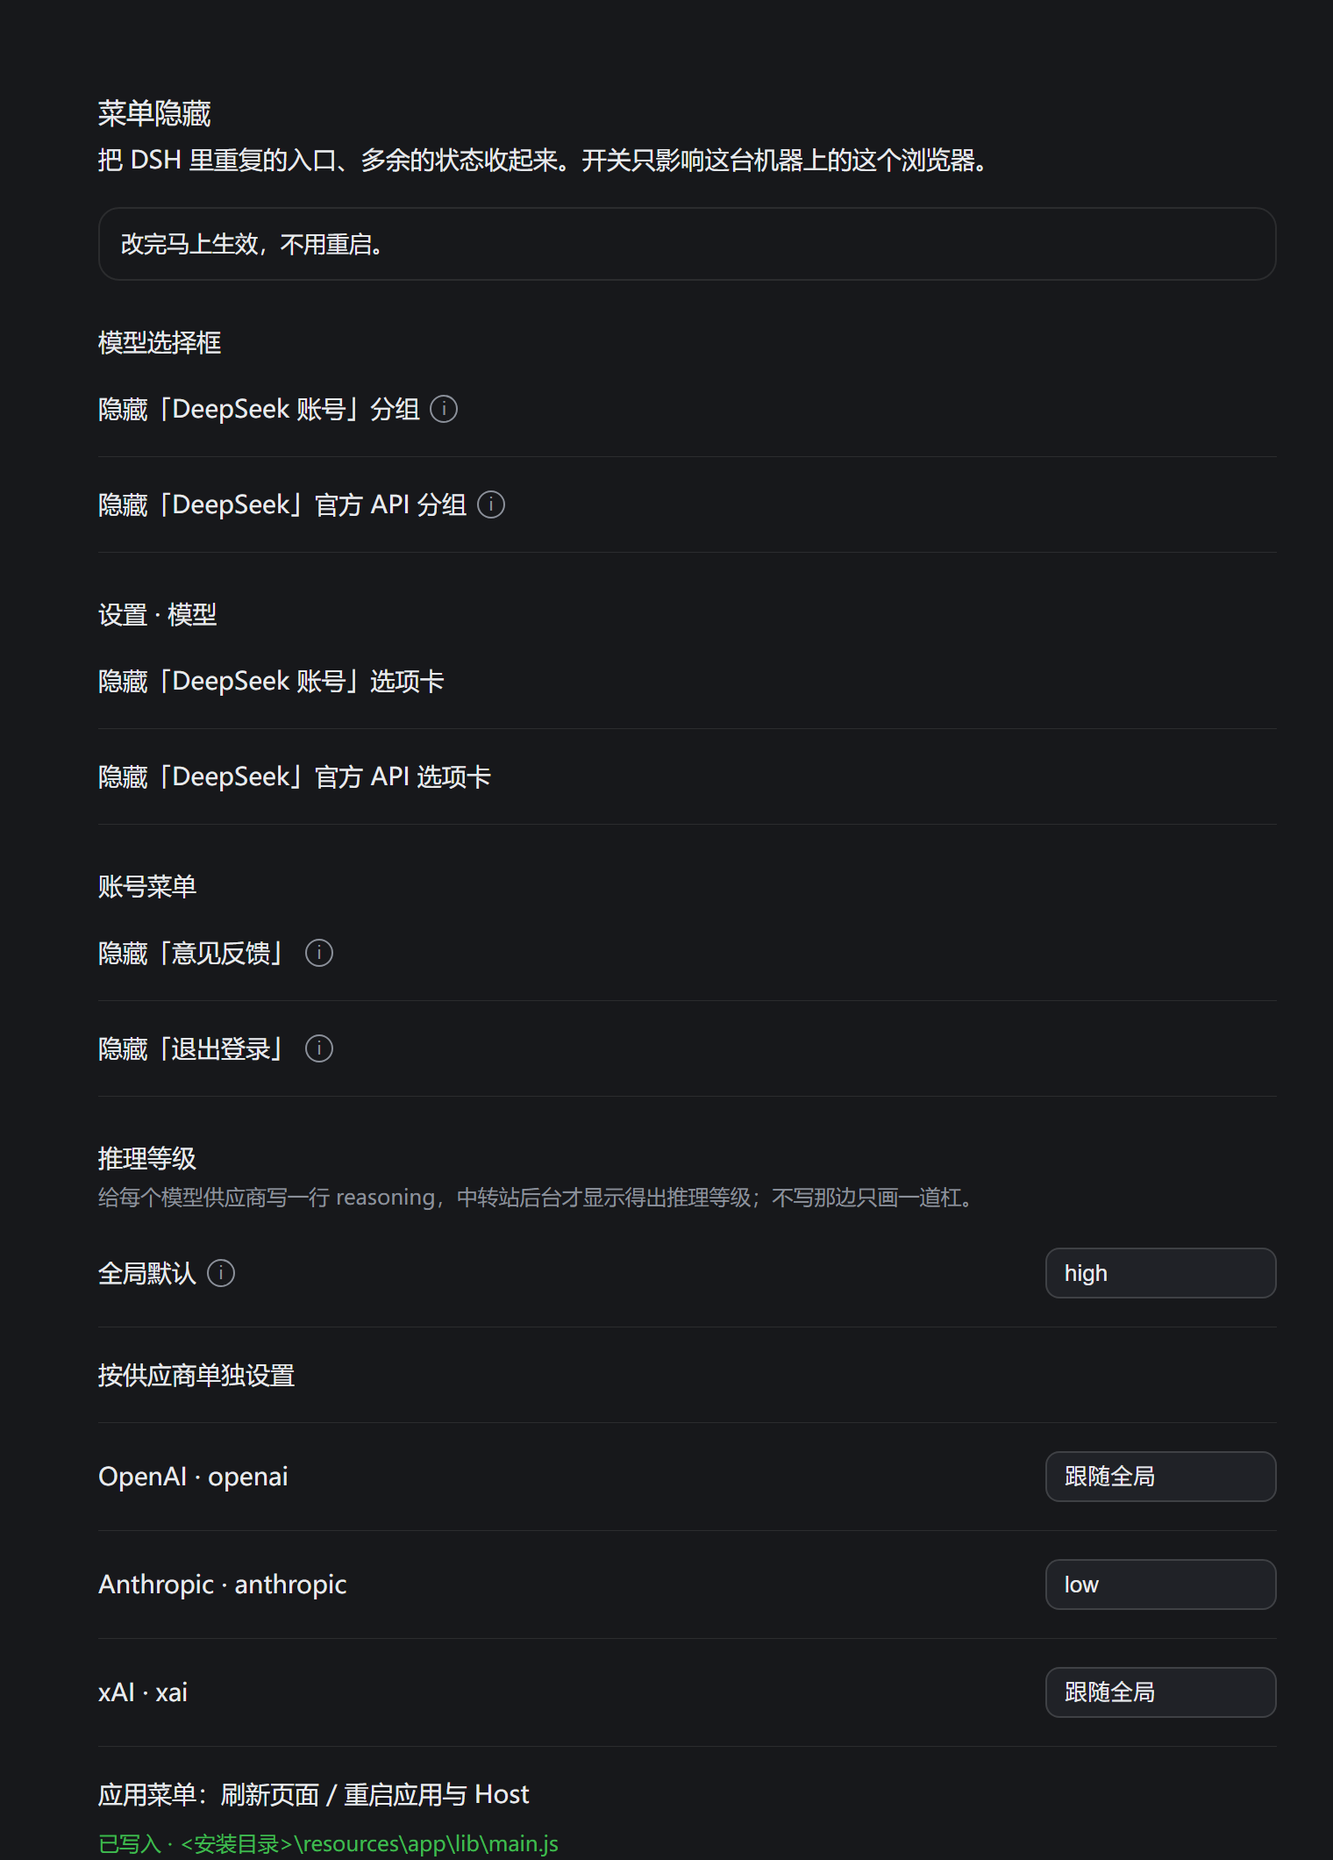
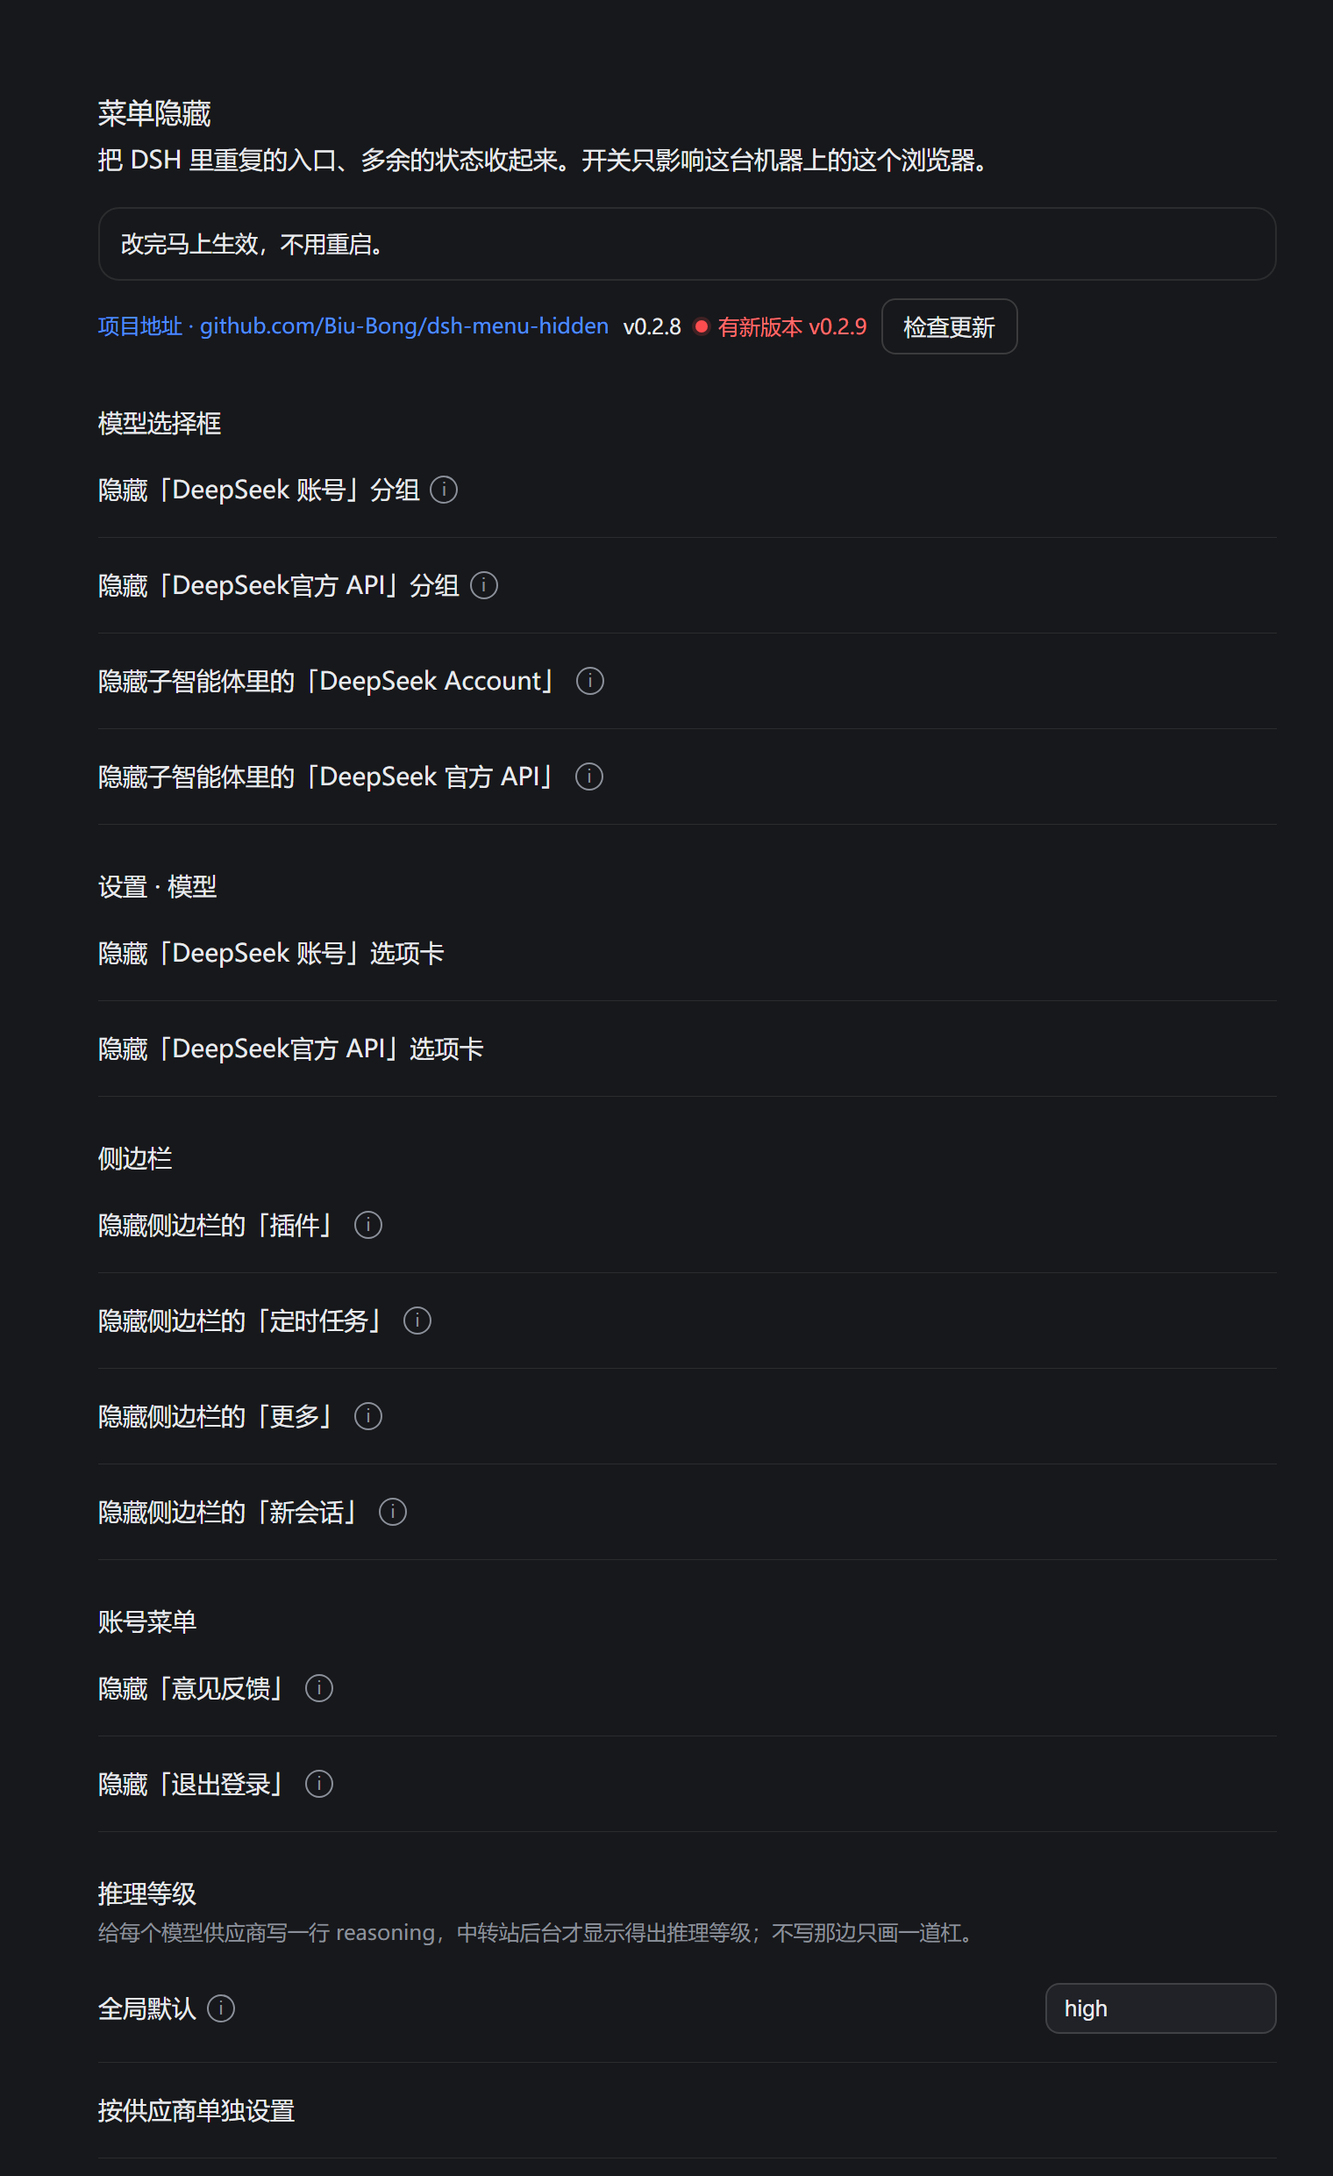
0.2.8: 隐藏侧边栏「新会话」；设置页顶部加项目地址与检查更新（红点提示新版本）

diff --git a/client.js b/client.js
@@ -39,6 +39,8 @@ window.__ModuleLoader__.load({
 		const MARK = "data-dshmh-hidden";
 		const SHELL_ROUTE = "/dsh-menu-hidden/api/shell-menu";
 		const REASONING_ROUTE = "/dsh-menu-hidden/api/reasoning";
+		const UPDATE_ROUTE = "/dsh-menu-hidden/api/update";
+		const REPO_URL = "https://github.com/Biu-Bong/dsh-menu-hidden";
 		const SETTINGS_SECTION_SLOT = "settings.section";
 
 		// ── §1 文案（跟随应用语言） ────────────────────────────────────────────
@@ -82,6 +84,14 @@ window.__ModuleLoader__.load({
 				sidebarSchedulesHint: "同一排图标里的定时任务入口。",
 				sidebarMoreLabel: "隐藏侧边栏的「更多」",
 				sidebarMoreHint: "那排图标最后的「更多」，点开是没固定在侧栏的面板。藏掉之后它们只能靠命令面板进。",
+				sidebarNewSessionLabel: "隐藏侧边栏的「新会话」",
+				sidebarNewSessionHint: "那个大按钮。点左上角的 LOGO 一样能开新会话，Ctrl+N 也还在。",
+				updateCheck: "检查更新",
+				updateChecking: "检查中…",
+				updateLatest: "已是最新",
+				updateNew: "有新版本",
+				updateFailed: "检查失败",
+				updateRepo: "项目地址",
 				feedbackLabel: "隐藏「意见反馈」",
 				feedbackHint: "右下角头像点开的那份菜单里的「意见反馈」。",
 				signOutLabel: "隐藏「退出登录」",
@@ -142,6 +152,14 @@ window.__ModuleLoader__.load({
 				sidebarSchedulesHint: "The Scheduled tasks entry in the same rail.",
 				sidebarMoreLabel: "Hide \"More\" in the sidebar",
 				sidebarMoreHint: "The More launcher at the end of the rail; the panels it opens stay reachable from the command palette.",
+				sidebarNewSessionLabel: "Hide \"New session\" in the sidebar",
+				sidebarNewSessionHint: "The big button. The brand mark and Ctrl+N still start a session.",
+				updateCheck: "Check for updates",
+				updateChecking: "Checking…",
+				updateLatest: "Up to date",
+				updateNew: "New version",
+				updateFailed: "Check failed",
+				updateRepo: "Project",
 				feedbackLabel: "Hide \"Feedback\"",
 				feedbackHint: "The Feedback item in the account menu opened from the avatar at the bottom right.",
 				signOutLabel: "Hide \"Sign out\"",
@@ -174,6 +192,7 @@ window.__ModuleLoader__.load({
 			sidebarPlugins: true,
 			sidebarSchedules: true,
 			sidebarMore: true,
+			sidebarNewSession: true,
 			subagentAccount: true,
 			subagentOfficial: true,
 			accountRow: true,
@@ -232,6 +251,8 @@ window.__ModuleLoader__.load({
 		const SIDEBAR_PLUGINS_LABELS = ["插件", "Plugins"];
 		const SIDEBAR_SCHEDULES_LABELS = ["定时任务", "Scheduled tasks", "Schedules"];
 		const SIDEBAR_MORE_LABELS = ["更多", "More"];
+		/** 「新会话」大按钮：button._newSession，收起时变成标题栏里的小图标，同样认类名。 */
+		const SIDEBAR_NEW_SESSION_SELECTOR = 'button[class*="_newSession"]';
 		const SUBAGENT_ROUTE_SELECTOR = '[class*="_route"]';
 		const SUBAGENT_PROVIDER_SELECTOR = '[class*="_providerName"]';
 
@@ -305,6 +326,8 @@ window.__ModuleLoader__.load({
 		/** 侧边栏面板图标：按 aria-label 认（收起时没有文字，只剩它）。 */
 		function sweepSidebarNav(root) {
 			const rows = root.matches(SIDEBAR_ROW_SELECTOR) ? [root, ...root.querySelectorAll(SIDEBAR_ROW_SELECTOR)] : [...root.querySelectorAll(SIDEBAR_ROW_SELECTOR)];
+			const create = root.matches(SIDEBAR_NEW_SESSION_SELECTOR) ? [root, ...root.querySelectorAll(SIDEBAR_NEW_SESSION_SELECTOR)] : [...root.querySelectorAll(SIDEBAR_NEW_SESSION_SELECTOR)];
+			for (const button of create) setHidden(button, prefs.sidebarNewSession === true);
 			for (const row of rows) {
 				const text = (row.getAttribute("aria-label") ?? row.textContent ?? "").trim();
 				if (matches(SIDEBAR_PLUGINS_LABELS, text)) setHidden(row, prefs.sidebarPlugins === true);
@@ -534,6 +557,13 @@ window.__ModuleLoader__.load({
 			".dshmh-page{box-sizing:border-box;display:flex;flex-direction:column;width:100%;max-width:720px;margin:0 auto;padding:24px}",
 			".dshmh-title{color:var(--dsw-alias-label-primary,inherit);margin:0 0 4px;font-size:16px;font-weight:500;line-height:24px}",
 			".dshmh-desc{color:var(--dsw-alias-label-secondary,inherit);margin:0;font-size:14px;line-height:22px}",
+			".dshmh-project{display:flex;align-items:center;flex-wrap:wrap;gap:8px;margin:10px 0 4px;font-size:12px}",
+			".dshmh-link{color:var(--dsw-alias-state-business-primary,#4d8dff);text-decoration:none;border-bottom:1px solid transparent}",
+			".dshmh-link:hover{border-bottom-color:currentColor}",
+			".dshmh-version{color:var(--dsw-alias-label-secondary,inherit);font-variant-numeric:tabular-nums}",
+			".dshmh-new{display:inline-flex;align-items:center;gap:6px;color:#ff6b6b;font-weight:500}",
+			".dshmh-dot{width:7px;height:7px;border-radius:50%;background:#ff4d4f;box-shadow:0 0 0 2px rgba(255,77,79,.18);display:inline-block}",
+			".dshmh-inline{margin:0}",
 			".dshmh-subtitle{color:var(--dsw-alias-label-primary,inherit);margin:24px 0 0;font-size:14px;font-weight:500;line-height:22px}",
 			".dshmh-row{display:flex;align-items:center;gap:12px;padding:16px 0;border-bottom:.5px solid var(--dsw-alias-border-l2,rgba(127,127,127,.2))}",
 			".dshmh-text{display:flex;flex-direction:column;flex:1;gap:4px;min-width:0;padding-right:32px}",
@@ -717,6 +747,7 @@ window.__ModuleLoader__.load({
 			const [draftOverrides, setDraftOverrides] = React.useState({});
 			const [reasoningBusy, setReasoningBusy] = React.useState(false);
 			const [reasoningNote, setReasoningNote] = React.useState(null);
+			const [update, setUpdate] = React.useState(null);
 
 			React.useEffect(() => {
 				let alive = true;
@@ -726,6 +757,16 @@ window.__ModuleLoader__.load({
 				);
 				return () => { alive = false; };
 			}, []);
+
+			const checkUpdate = () => {
+				setUpdate((prev) => ({ ...(prev ?? {}), status: "loading" }));
+				fetch(UPDATE_ROUTE, { credentials: "same-origin" }).then((response) => response.json()).then(
+					(state) => setUpdate({ status: "done", ...state }),
+					(error) => setUpdate({ status: "error", error: String((error && error.message) || error) }),
+				);
+			};
+
+			React.useEffect(() => { checkUpdate(); }, []);
 
 			const toggle = (key) => (next) => {
 				prefs[key] = next === true;
@@ -853,6 +894,7 @@ window.__ModuleLoader__.load({
 				["sidebarPlugins", "sidebarPluginsLabel", "sidebarPluginsHint"],
 				["sidebarSchedules", "sidebarSchedulesLabel", "sidebarSchedulesHint"],
 				["sidebarMore", "sidebarMoreLabel", "sidebarMoreHint"],
+				["sidebarNewSession", "sidebarNewSessionLabel", "sidebarNewSessionHint"],
 			].map(([key, label, hint]) => React.createElement(ToggleRow, {
 				key,
 				label: t(label),
@@ -965,6 +1007,31 @@ window.__ModuleLoader__.load({
 				React.createElement("h2", { className: "dshmh-title" }, t("title")),
 				React.createElement("p", { className: "dshmh-desc" }, t("desc")),
 				React.createElement("p", { className: "dshmh-note" }, t("autoRefreshNote")),
+				React.createElement("div", { className: "dshmh-project" },
+					React.createElement("a", {
+						className: "dshmh-link",
+						href: REPO_URL,
+						target: "_blank",
+						rel: "noreferrer",
+						onClick: (event) => {
+							// Electron 里 window.open 会被拦，退回普通跳转由 will-navigate 交给系统浏览器。
+							const opened = window.open(REPO_URL, "_blank", "noopener");
+							if (opened === null) { event.preventDefault(); window.location.href = REPO_URL; }
+						},
+					}, t("updateRepo") + " · github.com/Biu-Bong/dsh-menu-hidden"),
+					update !== null && typeof update.current === "string" ? React.createElement("span", { className: "dshmh-version" }, "v" + update.current) : null,
+					update !== null && update.hasUpdate === true ? React.createElement("span", { className: "dshmh-new" },
+						React.createElement("span", { className: "dshmh-dot", "aria-hidden": "true" }),
+						t("updateNew") + " v" + String(update.latest)) : null,
+					React.createElement("button", {
+						type: "button",
+						className: "dshmh-btn",
+						disabled: update !== null && update.status === "loading",
+						onClick: checkUpdate,
+					}, update !== null && update.status === "loading" ? t("updateChecking") : t("updateCheck")),
+					update !== null && update.status === "done" && update.hasUpdate !== true ? React.createElement("span", { className: "dshmh-caption dshmh-inline" }, t("updateLatest")) : null,
+					update !== null && update.status === "error" ? React.createElement("span", { className: "dshmh-caption dshmh-inline" }, t("updateFailed") + "：" + String(update.error ?? "")) : null,
+				),
 
 				React.createElement("h3", { className: "dshmh-subtitle" }, t("groupPicker")),
 				...rows,

diff --git a/index.js b/index.js
@@ -27,6 +27,10 @@ export const inject = ['webServer']
 
 const ROUTE = '/dsh-menu-hidden/api/shell-menu'
 const REASONING_ROUTE = '/dsh-menu-hidden/api/reasoning'
+const UPDATE_ROUTE = '/dsh-menu-hidden/api/update'
+const REPO_SLUG = 'Biu-Bong/dsh-menu-hidden'
+const REPO_URL = `https://github.com/${REPO_SLUG}`
+const UPDATE_TTL_MS = 30 * 60 * 1000
 const BACKUP_SUFFIX = '.menuhidden.bak'
 /** 官方原样：development 为 false 时整段被丢掉。 */
 const MARK_ORIGINAL = '...development ? ['
@@ -266,6 +270,70 @@ function readJsonBody(request, limit = 64 * 1024) {
  * @param {object} ctx - 宿主上下文。
  * @param {object} [config] - 预留配置。
  */
+/** 本插件的版本号：读自己旁边的 package.json。 */
+function readVersion() {
+  try {
+    return JSON.parse(readFileSync(new URL('./package.json', import.meta.url), 'utf8')).version
+  } catch {
+    return '0.0.0'
+  }
+}
+
+/** 只比 major.minor.patch，预发布后缀（-rc.1）先剥掉。 */
+function compareVersions(a, b) {
+  const parse = (value) => String(value).replace(/^v/, '').split('-')[0].split('.').map((part) => Number.parseInt(part, 10) || 0)
+  const left = parse(a)
+  const right = parse(b)
+  for (let index = 0; index < 3; index += 1) {
+    const diff = (left[index] ?? 0) - (right[index] ?? 0)
+    if (diff !== 0) return diff > 0 ? 1 : -1
+  }
+  return 0
+}
+
+let updateCache = { at: 0, payload: null }
+
+async function fetchJson(url, timeoutMs) {
+  const controller = new AbortController()
+  const timer = setTimeout(() => controller.abort(), timeoutMs)
+  try {
+    const response = await fetch(url, {
+      headers: { accept: 'application/json', 'user-agent': 'dsh-menu-hidden' },
+      signal: controller.signal,
+    })
+    if (!response.ok) throw new Error(`HTTP ${String(response.status)}`)
+    return await response.json()
+  } finally {
+    clearTimeout(timer)
+  }
+}
+
+/**
+ * 最新版本号。api.github.com 未登录时限流很凶（这台机器上就直接 403），
+ * 所以先读 raw 上的 package.json，再退到 jsdelivr，最后才试 GitHub API。
+ */
+async function latestRelease() {
+  if (updateCache.payload !== null && Date.now() - updateCache.at < UPDATE_TTL_MS) return updateCache.payload
+  const sources = [
+    async () => ({ latest: String((await fetchJson(`https://raw.githubusercontent.com/${REPO_SLUG}/main/package.json`, 8000)).version ?? '') }),
+    async () => ({ latest: String((await fetchJson(`https://cdn.jsdelivr.net/gh/${REPO_SLUG}@main/package.json`, 8000)).version ?? '') }),
+    async () => ({ latest: String((await fetchJson(`https://api.github.com/repos/${REPO_SLUG}/releases/latest`, 8000)).tag_name ?? '').replace(/^v/, '') }),
+  ]
+  let lastError = null
+  for (const load of sources) {
+    try {
+      const { latest } = await load()
+      if (latest === '') throw new Error('版本号是空的')
+      const payload = { latest, url: `${REPO_URL}/releases` }
+      updateCache = { at: Date.now(), payload }
+      return payload
+    } catch (error) {
+      lastError = error
+    }
+  }
+  throw lastError ?? new Error('没有可用的版本源')
+}
+
 export function apply(ctx, config = {}) {
   void config
   const info = (line) => {
@@ -365,5 +433,39 @@ export function apply(ctx, config = {}) {
   }
 
   ctx.effect(() => ctx.webServer.register({ kind: 'exact', path: REASONING_ROUTE, handler: reasoningHandler }), 'dsh-menu-hidden: reasoning route')
+
+  const updateHandler = async (request, response) => {
+    const send = (code, body) => {
+      response.writeHead(code, { 'content-type': 'application/json; charset=utf-8', 'cache-control': 'no-store' })
+      response.end(JSON.stringify(body))
+    }
+    if (!trustedRequest(request)) {
+      send(403, { ok: false, error: '请求来源不受信任。' })
+      return
+    }
+    if (request.method !== 'GET') {
+      response.writeHead(405, { allow: 'GET' })
+      response.end()
+      return
+    }
+    const current = readVersion()
+    try {
+      const release = await latestRelease()
+      send(200, {
+        ok: true,
+        current,
+        latest: release.latest,
+        hasUpdate: compareVersions(release.latest, current) > 0,
+        url: release.url,
+        repo: REPO_URL,
+        checkedAt: Date.now(),
+      })
+    } catch (error) {
+      send(200, { ok: false, current, latest: null, hasUpdate: false, repo: REPO_URL, error: String((error && error.message) || error) })
+    }
+  }
+
+  ctx.effect(() => ctx.webServer.register({ kind: 'exact', path: UPDATE_ROUTE, handler: updateHandler }), 'dsh-menu-hidden: update route')
+  info(`route mounted: ${UPDATE_ROUTE}`)
   info(`route mounted: ${REASONING_ROUTE}`)
 }

diff --git a/README.md b/README.md
@@ -120,7 +120,7 @@ https://cdn.jsdelivr.net/npm/dsh-plugin-catalog/index.json
 
 为什么 web 端也能跑：客户端半用的是 Web UI 的 DOM 和 slot，`package.json` 里 `dsh.client.platform` 就是 `"web"`，桌面版加载的也是同一套 Web 前端；宿主半只要求 `webServer` 服务，`web` profile 里也有。第 5 条走的是 Electron 主进程的 `Menu.buildFromTemplate(...).popup()`，浏览器里没有承载物——这种环境下宿主半找不到 `lib/main.js`，设置页那一行会显示「没找到外壳文件」，点按钮只会回一句说明，不会动到任何文件。
 
-## 九条功能与实现
+## 十条功能与实现
 
 | # | 效果 | 实现方式 | 生效时机 |
 |---|---|---|---|
@@ -133,6 +133,7 @@ https://cdn.jsdelivr.net/npm/dsh-plugin-catalog/index.json
 | 7 | 账号菜单里隐藏「退出登录」 | 同上，另一个开关各管一项；两项都藏时菜单只剩「设置」 | 立刻 |
 | 8 | 子智能体的模型选择里隐藏「DeepSeek Account」「DeepSeek 官方 API」两组 | 客户端 DOM：按每行副标题里的 provider id（`deepseek-official` / `deepseek-account`）认组，藏掉外层 `[class*="_modelGroup"]`；拿不到 id 才退回标题文字（两个开关，都在「模型选择框」组里） | 立刻 |
 | 9 | 侧边栏那排图标里隐藏「插件」「定时任务」「更多」 | 客户端 DOM：`button[class*="_panelRow"]` 按 `aria-label` 认（收起时没有文字，只剩这个属性），三个开关各管一个 | 立刻 |
+| 10 | 隐藏侧边栏顶部那个「新会话」大按钮 | 客户端 DOM：`button[class*="_newSession"]`，展开是整条按钮、收起是标题栏里的小图标，同一个类名都认 | 立刻 |
 
 ## 为什么不会闪
 
@@ -202,14 +203,24 @@ node shell/patch-shell-menu.mjs --revert   # 还原
 
 ## 设置页
 
-设置 → 菜单隐藏：五个并列标题 + 十一个开关 + 两个按钮。
+设置 → 菜单隐藏：五个并列标题 + 十二个开关 + 两个按钮，最上面一条是项目地址和版本号。
+
+顶部那条长这样：
+
+```
+项目地址 · github.com/Biu-Bong/dsh-menu-hidden   v0.2.8   ● 有新版本 v0.2.9   [检查更新]
+```
+
+- 点项目地址用系统浏览器打开仓库（Electron 的 `window.open` 会被拦，脚本里退回 `location.href`，由 `will-navigate` 交给 `shell.openExternal`）。
+- 进设置页时自动查一次；30 分钟内不重复查。有更新就在版本号后面点一个红点，写上最新版本。
+- 版本源顺序：`raw.githubusercontent.com` 上的 `package.json` → jsDelivr 同一份 → GitHub Releases API。**不先用 API**：未登录的 `api.github.com` 按 IP 限流，60 次/小时，台式机常年挂着很容易 403（本机实测就是 403）。
 
 - **模型选择框**：四开关 —— 下拉框里的「DeepSeek 账号」分组 / 「DeepSeek官方 API」分组，以及子智能体「Agent 可选择的模型」列表里的「DeepSeek Account」/「DeepSeek 官方 API」两组。
 - **设置 · 模型**：两开关，隐藏设置页里的账号整行 / 官方 API 整行。
 - **侧边栏**：三开关，隐藏左侧那排图标里的「插件」/「定时任务」/「更多」。
 - **账号菜单**：两开关，隐藏右下角头像菜单里的「意见反馈」/「退出登录」。
 - **推理等级**：全局默认 + 按供应商覆盖，写入 profile 配置；面板重新获得焦点会自动重读，也能点「重新读取」。
-- 十一个开关都存 `localStorage` 的 `dsh-menu-hidden:v1`，翻一下立刻重扫 DOM。
+- 十二个开关都存 `localStorage` 的 `dsh-menu-hidden:v1`，翻一下立刻重扫 DOM。
 - 「应用菜单」那一行显示外壳状态（已写入 / 未改动 / 没找到文件）+ 写入 / 还原按钮。
 - 最后一行「现在刷新一次界面」，等同应用菜单里的「刷新页面」。
 
